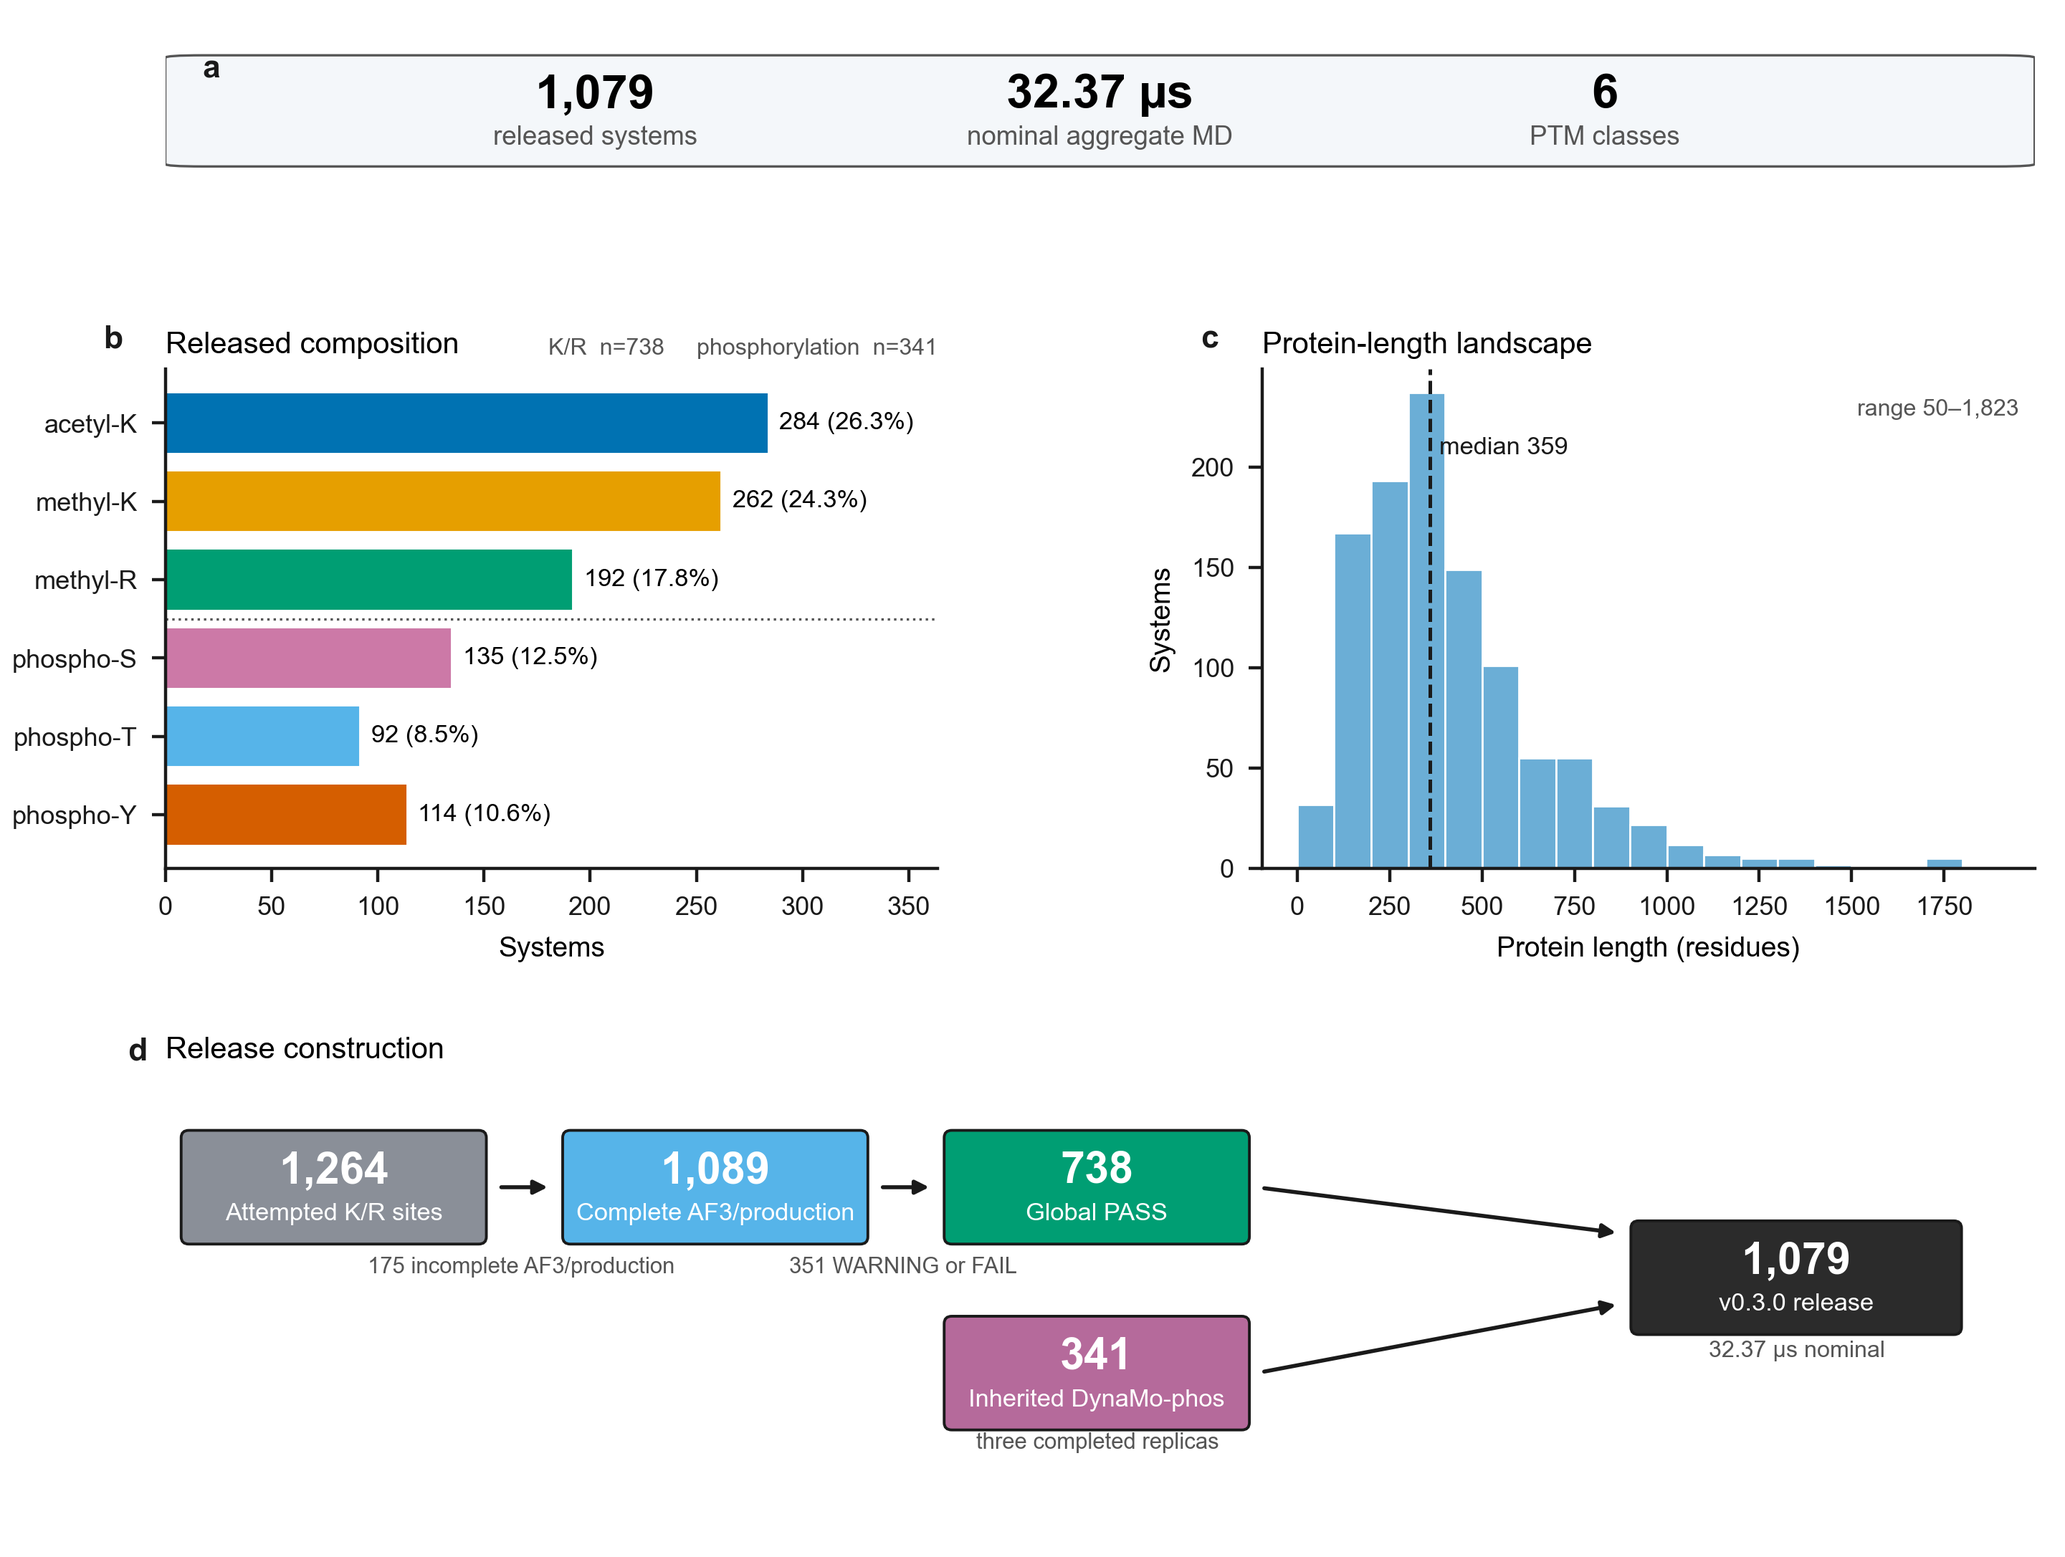
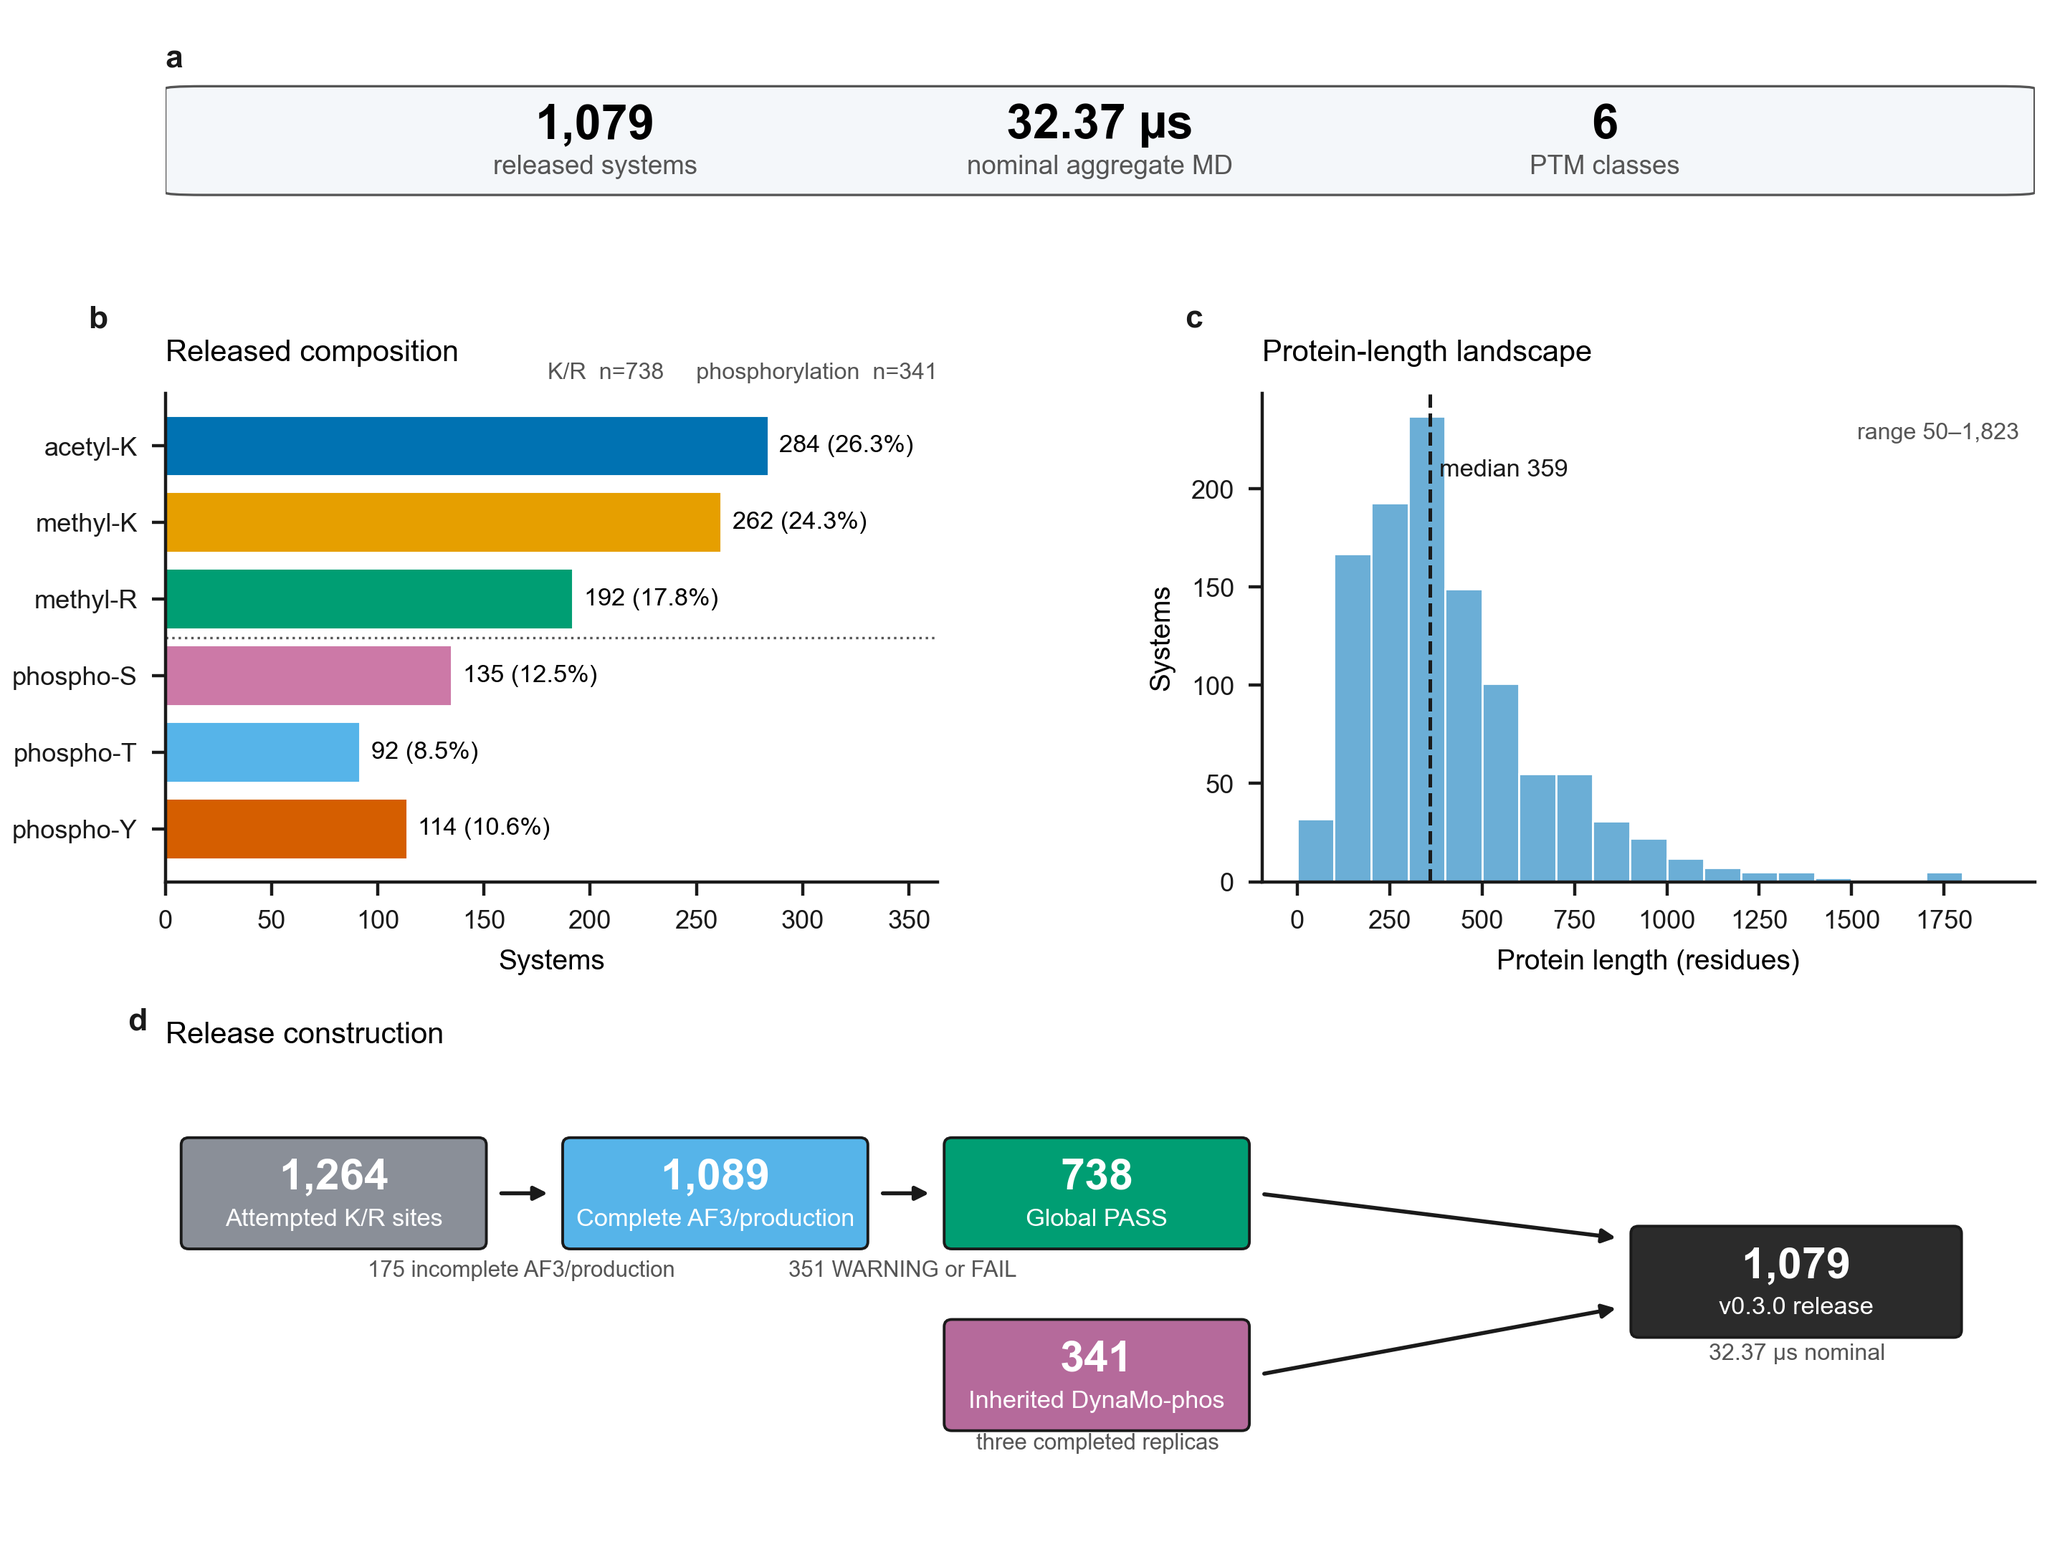
web: standardize DynaMo PTM capitalization

diff --git a/dyna-mo-web/src/App.tsx b/dyna-mo-web/src/App.tsx
@@ -256,7 +256,7 @@ function Header({
           <span className="grid h-9 w-9 place-items-center rounded-md bg-white text-sm font-bold text-[#10324a] shadow-sm">
             DM
           </span>
-          <span className="hidden sm:inline">Dyna-MO PTM</span>
+          <span className="hidden sm:inline">DynaMo PTM</span>
         </button>
         <nav className="hidden rounded-md border border-white/15 bg-white/[0.08] p-1 shadow-sm md:flex">
           {links.map((link) => (
@@ -389,7 +389,7 @@ function HomePage({
             </div>
             <div>
               <h1 className="max-w-4xl text-5xl font-semibold leading-[1.04] text-[#071827] md:text-6xl">
-                Dyna-MO PTM
+                DynaMo PTM
               </h1>
               <p className="mt-3 max-w-3xl text-2xl font-medium leading-9 text-[#17415a]">
                 Molecular dynamics resource for post-translationally modified
@@ -553,7 +553,7 @@ function HomePage({
               <p className="text-sm font-medium uppercase text-slate-500">
                 Citation export
               </p>
-              <h2 className="mt-2 text-2xl font-semibold">Cite Dyna-MO PTM</h2>
+              <h2 className="mt-2 text-2xl font-semibold">Cite DynaMo PTM</h2>
               <p className="mt-2 max-w-2xl text-sm leading-6 text-slate-600">
                 Published Lite dataset record. Cite the full record as well when
                 using trajectory files.
@@ -604,7 +604,7 @@ function HomePage({
         <div className="chromatic-card rounded-xl p-5">
           <h2 className="text-2xl font-semibold">Publication overview</h2>
           <p className="mt-3 leading-7 text-slate-600">
-            Dyna-MO PTM covers acetyl-lysine, methyl-lysine, methyl-arginine,
+            DynaMo PTM covers acetyl-lysine, methyl-lysine, methyl-arginine,
             phospho-serine, phospho-threonine and phospho-tyrosine. Each row
             records its preparation and descriptor provenance. The documented
             production design targets three nominal 10 ns replicas under
@@ -1026,10 +1026,10 @@ function SystemPage({
       name: `${system.id} ${system.ptm_label} molecular dynamics system`,
       identifier: system.id,
       url: systemUrl,
-      description: `Dyna-MO PTM descriptor row for ${system.uniprot} ${system.mod_residue}, a ${system.ptm_label} molecular dynamics system.`,
+      description: `DynaMo PTM descriptor row for ${system.uniprot} ${system.mod_residue}, a ${system.ptm_label} molecular dynamics system.`,
       isPartOf: {
         "@type": "Dataset",
-        name: "Dyna-MO PTM",
+        name: "DynaMo PTM",
       },
       keywords: [
         "post-translational modification",
@@ -1039,14 +1039,14 @@ function SystemPage({
       ],
       creator: {
         "@type": "Organization",
-        name: "Dyna-MO PTM",
+        name: "DynaMo PTM",
       },
       variableMeasured: Object.keys(system.raw),
       sameAs: [`https://www.uniprot.org/uniprotkb/${system.uniprot}`],
       distribution,
     });
     document.head.appendChild(script);
-    document.title = `${system.id} | Dyna-MO PTM`;
+    document.title = `${system.id} | DynaMo PTM`;
 
     return () => {
       script.remove();
@@ -1444,7 +1444,7 @@ function DocsPage({
       <p className="text-sm font-semibold uppercase tracking-wide text-[#0f766e]">
         Documentation
       </p>
-      <h1 className="mt-2 text-4xl font-semibold">Use Dyna-MO PTM</h1>
+      <h1 className="mt-2 text-4xl font-semibold">Use DynaMo PTM</h1>
       <p className="mt-4 max-w-3xl leading-7 text-slate-600">
         A practical route from dataset discovery to route-aware descriptor reuse
         and trajectory reanalysis.
@@ -1750,9 +1750,9 @@ function AboutPage({ dataset }: { dataset: StaticDataset }) {
   return (
     <main className="mx-auto max-w-5xl px-4 py-10">
       <div className="chromatic-card rounded-xl p-6">
-        <h1 className="text-4xl font-semibold">About Dyna-MO PTM</h1>
+        <h1 className="text-4xl font-semibold">About DynaMo PTM</h1>
         <p className="mt-5 leading-8 text-slate-600">
-          The Dyna-MO PTM descriptor schema v0.3.0 contains{" "}
+          The DynaMo PTM descriptor schema v0.3.0 contains{" "}
           {dataset.stats.systems.toLocaleString()} modified-protein systems
           covering acetyl-lysine, methyl-lysine, methyl-arginine,
           phospho-serine, phospho-threonine and phospho-tyrosine. The resource
@@ -1925,10 +1925,10 @@ ${dataset.release.site_url}/api/systems.json`}
           </div>
           <div className="rounded-lg border bg-white/75 p-4">
             <dt className="font-semibold">
-              How is Dyna-MO PTM related to ATLAS?
+              How is DynaMo PTM related to ATLAS?
             </dt>
             <dd className="mt-1 text-sm leading-6 text-slate-600">
-              ATLAS is a broad protein flexibility resource. Dyna-MO PTM is a
+              ATLAS is a broad protein flexibility resource. DynaMo PTM is a
               PTM-focused complement with modified-residue descriptors and
               uniform short MD replicas.
             </dd>
@@ -1939,7 +1939,7 @@ ${dataset.release.site_url}/api/systems.json`}
             </dt>
             <dd className="mt-1 text-sm leading-6 text-slate-600">
               PhosphoSitePlus catalogues curated PTM sites and annotations.
-              Dyna-MO PTM adds structure-based and MD-derived descriptors for
+              DynaMo PTM adds structure-based and MD-derived descriptors for
               simulated modified protein systems.
             </dd>
           </div>
@@ -2095,7 +2095,7 @@ function PtmOrbit({ counts }: { counts: StaticDataset["stats"]["counts"] }) {
         <div>
           <p className="text-sm font-medium text-slate-500">Dataset release</p>
           <h2 className="mt-1 text-3xl font-semibold text-[#071827]">
-            Dyna-MO PTM descriptor schema v0.3.0
+            DynaMo PTM descriptor schema v0.3.0
           </h2>
           <p className="mt-2 max-w-md text-sm leading-6 text-slate-600">
             A synchronized interface for the Lite v0.3.1 descriptor and AF3
@@ -2398,7 +2398,7 @@ function Footer() {
   return (
     <footer className="border-t bg-white">
       <div className="mx-auto flex max-w-7xl flex-col gap-3 px-4 py-6 text-sm text-slate-600 md:flex-row md:justify-between">
-        <span>Dyna-MO PTM · descriptor schema v0.3.0</span>
+        <span>DynaMo PTM · descriptor schema v0.3.0</span>
         <span className="flex flex-wrap gap-x-4 gap-y-1">
           <a className="underline underline-offset-4" href={LITE_URL}>
             Lite {LITE_DOI}
@@ -2419,7 +2419,7 @@ function LoadingShell() {
   return (
     <div className="grid min-h-screen place-items-center bg-slate-50">
       <div className="rounded-xl border bg-white p-6 shadow-sm">
-        Loading Dyna-MO PTM descriptor table...
+        Loading DynaMo PTM descriptor table...
       </div>
     </div>
   );

diff --git a/dyna-mo-web/index.html b/dyna-mo-web/index.html
@@ -5,7 +5,7 @@
     <meta name="viewport" content="width=device-width, initial-scale=1.0" />
     <meta
       name="description"
-      content="Dyna-MO PTM provides 118 molecular-dynamics descriptors for 1,079 post-translationally modified protein systems, with searchable records, retained AF3 inputs and public trajectories."
+      content="DynaMo PTM provides 118 molecular-dynamics descriptors for 1,079 post-translationally modified protein systems, with searchable records, retained AF3 inputs and public trajectories."
     />
     <link
       rel="canonical"
@@ -13,7 +13,7 @@
     />
     <link rel="icon" type="image/svg+xml" href="%BASE_URL%favicon.svg" />
     <meta property="og:type" content="website" />
-    <meta property="og:title" content="Dyna-MO PTM" />
+    <meta property="og:title" content="DynaMo PTM" />
     <meta
       property="og:description"
       content="A searchable molecular-dynamics descriptor resource for 1,079 post-translationally modified protein systems."
@@ -23,7 +23,7 @@
       content="https://kkkniengliu.github.io/dyna-mo-ptm-web/"
     />
     <meta name="twitter:card" content="summary" />
-    <meta name="twitter:title" content="Dyna-MO PTM" />
+    <meta name="twitter:title" content="DynaMo PTM" />
     <meta
       name="twitter:description"
       content="Molecular-dynamics descriptors, retained AF3 inputs and public trajectories for 1,079 PTM protein systems."
@@ -32,7 +32,7 @@
       {
         "@context": "https://schema.org",
         "@type": "Dataset",
-        "name": "Dyna-MO PTM",
+        "name": "DynaMo PTM",
         "description": "Molecular-dynamics descriptors and retained starting structures for 1,079 post-translationally modified protein systems.",
         "url": "https://kkkniengliu.github.io/dyna-mo-ptm-web/",
         "identifier": [
@@ -63,7 +63,7 @@
         ]
       }
     </script>
-    <title>Dyna-MO PTM</title>
+    <title>DynaMo PTM</title>
   </head>
   <body>
     <div id="root"></div>

diff --git a/dyna-mo-web/src/app/page.tsx b/dyna-mo-web/src/app/page.tsx
@@ -51,7 +51,7 @@ export default function Home() {
             </div>
             <div className="space-y-4">
               <h1 className="max-w-4xl text-4xl font-semibold tracking-normal md:text-5xl">
-                <span className="text-gradient">Dyna-MO PTM</span>
+                <span className="text-gradient">DynaMo PTM</span>
                 <span>
                   : systematic MD for post-translationally modified proteins
                 </span>
@@ -183,7 +183,7 @@ export default function Home() {
           <h2 className="text-xl font-semibold">Citation</h2>
           <pre className="mt-4 overflow-auto rounded-md border bg-background/70 p-3 text-xs text-muted-foreground">
             {`@article{dynamoptm2026,
-  title = {Dyna-MO PTM: a molecular dynamics resource for post-translationally modified proteins},
+  title = {DynaMo PTM: a molecular dynamics resource for post-translationally modified proteins},
   author = {Liu, Kaining and Qian, Qiuting and Peng, Jiahua and Ma, Dongge and Chi, Ying},
   note = {Manuscript in preparation},
   year = {2026}

diff --git a/dyna-mo-web/src/app/layout.tsx b/dyna-mo-web/src/app/layout.tsx
@@ -20,8 +20,8 @@ const geistMono = localFont({
 export const metadata: Metadata = {
   metadataBase: new URL("https://dyna-mo-ptm.org"),
   title: {
-    default: "Dyna-MO PTM",
-    template: "%s | Dyna-MO PTM",
+    default: "DynaMo PTM",
+    template: "%s | DynaMo PTM",
   },
   description:
     "A systematic molecular dynamics database of post-translationally modified proteins.",
@@ -49,7 +49,7 @@ export default function RootLayout({
             <footer className="border-t bg-muted/30">
               <div className="container flex flex-col gap-2 py-6 text-sm text-muted-foreground md:flex-row md:items-center md:justify-between">
                 <p>
-                  Dyna-MO PTM database interface. DOI placeholder pending
+                  DynaMo PTM database interface. DOI placeholder pending
                   publication.
                 </p>
                 <p>CHARMM36-jul2022, TIP3P, 310 K, 10 ns x 3 replicas.</p>

diff --git a/dyna-mo-web/tests/e2e/smoke.spec.ts b/dyna-mo-web/tests/e2e/smoke.spec.ts
@@ -50,7 +50,7 @@ test("home to browse to system detail flow", async ({ page }, testInfo) => {
   await page.goto("/", { waitUntil: "domcontentloaded" });
   await expect(
     page.getByRole("heading", {
-      name: "Dyna-MO PTM",
+      name: "DynaMo PTM",
       exact: true,
     }),
   ).toBeVisible();
@@ -310,7 +310,7 @@ test("academic navigation and mobile menu expose the release pages", async ({
   for (const [route, heading] of [
     ["/statistics", "Dataset overview"],
     ["/descriptors", "Descriptor dictionary"],
-    ["/docs", "Use Dyna-MO PTM"],
+    ["/docs", "Use DynaMo PTM"],
     ["/downloads", "Download and cite"],
   ]) {
     await page.goto(route, { waitUntil: "domcontentloaded" });

diff --git a/dyna-mo-web/src/components/SiteHeader.tsx b/dyna-mo-web/src/components/SiteHeader.tsx
@@ -19,7 +19,7 @@ export function SiteHeader() {
           <span className="flex h-8 w-8 items-center justify-center rounded-md bg-primary text-sm text-primary-foreground shadow-lg shadow-primary/20 transition-transform group-hover:-rotate-3">
             DM
           </span>
-          <span className="tracking-normal">Dyna-MO PTM</span>
+          <span className="tracking-normal">DynaMo PTM</span>
         </Link>
         <nav className="hidden items-center gap-1 rounded-full border bg-card/70 p-1 shadow-sm md:flex">
           {navItems.map((item) => (

diff --git a/dyna-mo-web/src/app/system/[ptm]/[name]/page.tsx b/dyna-mo-web/src/app/system/[ptm]/[name]/page.tsx
@@ -31,7 +31,7 @@ export function generateMetadata({ params }: SystemPageProps): Metadata {
     title: system ? `${system.protein_name} ${system.site}` : "System Detail",
     description: system
       ? `${system.ptm_type} system ${system.protein_name} at ${system.site}`
-      : "Dyna-MO PTM system detail",
+      : "DynaMo PTM system detail",
   };
 }
 

diff --git a/dyna-mo-web/src/app/about/page.tsx b/dyna-mo-web/src/app/about/page.tsx
@@ -4,7 +4,7 @@ import { Card, CardContent, CardHeader, CardTitle } from "@/components/ui/card";
 
 export const metadata: Metadata = {
   title: "Methods",
-  description: "Methods and data dictionary for Dyna-MO PTM.",
+  description: "Methods and data dictionary for DynaMo PTM.",
 };
 
 export default function AboutPage() {

diff --git a/dyna-mo-web/src/app/download/page.tsx b/dyna-mo-web/src/app/download/page.tsx
@@ -4,7 +4,7 @@ import { Card, CardContent, CardHeader, CardTitle } from "@/components/ui/card";
 
 export const metadata: Metadata = {
   title: "Download",
-  description: "Bulk download links and CSV metadata for Dyna-MO PTM.",
+  description: "Bulk download links and CSV metadata for DynaMo PTM.",
 };
 
 const tarballs = [

diff --git a/dyna-mo-web/src/app/stats/page.tsx b/dyna-mo-web/src/app/stats/page.tsx
@@ -8,7 +8,7 @@ export const dynamic = "force-dynamic";
 
 export const metadata: Metadata = {
   title: "Database Statistics",
-  description: "Interactive statistics dashboard for Dyna-MO PTM.",
+  description: "Interactive statistics dashboard for DynaMo PTM.",
 };
 
 export default function StatsPage() {

diff --git a/dyna-mo-web/src/app/browse/page.tsx b/dyna-mo-web/src/app/browse/page.tsx
@@ -12,7 +12,7 @@ export const dynamic = "force-dynamic";
 
 export const metadata: Metadata = {
   title: "Browse Systems",
-  description: "Search, filter, sort, and export Dyna-MO PTM systems.",
+  description: "Search, filter, sort, and export DynaMo PTM systems.",
 };
 
 type BrowseSearchParams = {

diff --git a/scripts/build_web_trajectories.py b/scripts/build_web_trajectories.py
@@ -1,5 +1,5 @@
 #!/usr/bin/env python3
-"""Build static web trajectory assets for Dyna-MO PTM.
+"""Build static web trajectory assets for DynaMo PTM.
 
 The script fetches rep1 GROMACS trajectories from the GPU server, aligns and
 subsets them with mdtraj when available, and writes browser-loadable
